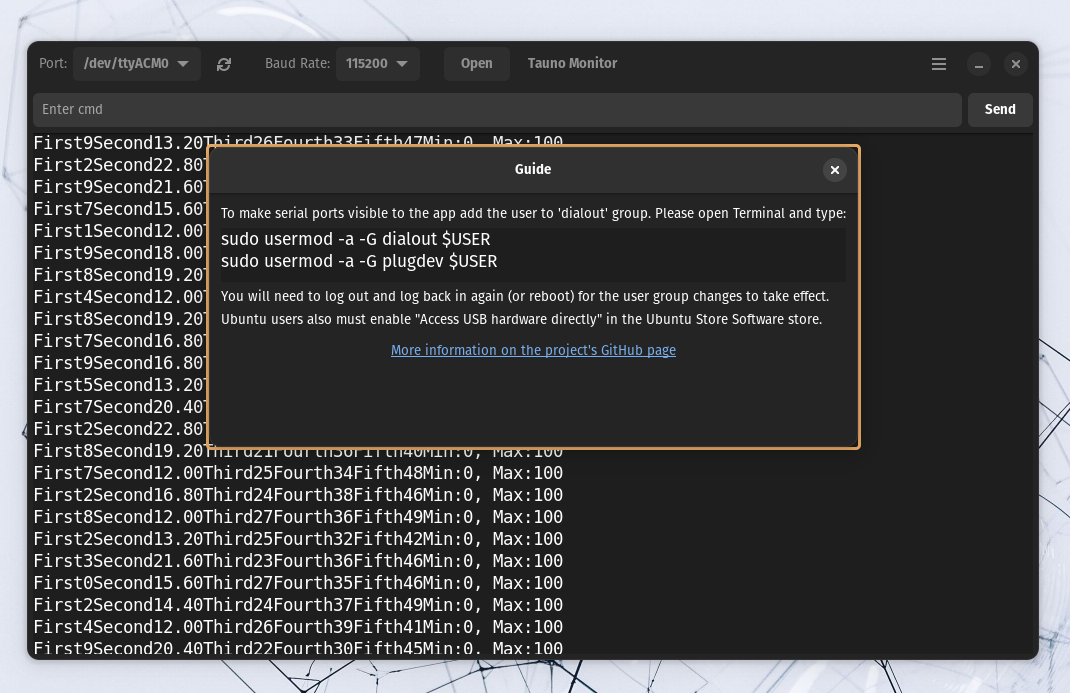
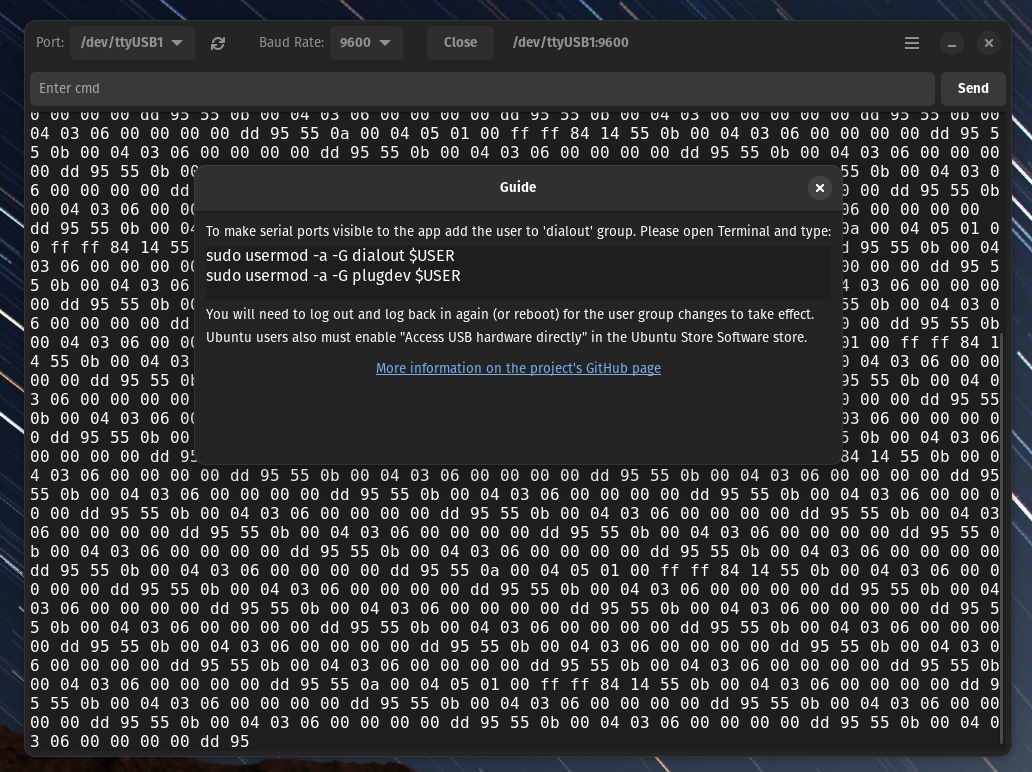
Added RX data HEX format selection

diff --git a/src/main.py b/src/main.py
@@ -36,6 +36,9 @@ locale.textdomain('tauno-monitor')
 class TaunoMonitorApplication(Adw.Application):
     """The main application singleton class."""
 
+    byte_sizes = ['FIVEBITS', 'SIXBITS', 'SEVENBITS', 'EIGHTBITS']  # serial
+    data_formats = ['ASCII', 'HEX']
+
     def __init__(self):
         super().__init__(application_id='art.taunoerik.tauno-monitor',
                          flags=Gio.ApplicationFlags.DEFAULT_FLAGS)
@@ -49,7 +52,7 @@ class TaunoMonitorApplication(Adw.Application):
         # shortcut
         self.set_accels_for_action('win.open', ['<Ctrl>o'])
 
-        # Get saved Mode
+        # Get saved Color Mode
         self.dark_mode_saved = self.settings.get_boolean("dark-mode")
         style_manager = Adw.StyleManager.get_default()
 
@@ -57,6 +60,8 @@ class TaunoMonitorApplication(Adw.Application):
             style_manager.set_color_scheme(Adw.ColorScheme.FORCE_DARK)
         else:
             style_manager.set_color_scheme(Adw.ColorScheme.FORCE_LIGHT)
+
+
 
 
 
@@ -100,7 +105,7 @@ class TaunoMonitorApplication(Adw.Application):
                                 application_icon='art.taunoerik.tauno-monitor',
                                 website='https://github.com/taunoe/tauno-monitor',
                                 developer_name='Tauno Erik',
-                                version='0.1.7',
+                                version='0.1.8',
                                 developers=['Tauno Erik'],
                                 copyright='© 2023 Tauno Erik')
         about.present()
@@ -115,14 +120,13 @@ class TaunoMonitorApplication(Adw.Application):
         settings_page.set_icon_name("applications-system-symbolic")
         preferences.add(settings_page)
 
-        # UI group
+        ## UI group
         ui_group = Adw.PreferencesGroup(title="Appearance")
         settings_page.add(ui_group)
 
-        # Text size
+        ### Text size
         font_row = Adw.ActionRow(title="Text size")
         ui_group.add(font_row)
-
         spin_adjustment = Gtk.Adjustment(value=self.win.font_size_saved,
                                  lower=2,
                                  upper=100,
@@ -133,15 +137,15 @@ class TaunoMonitorApplication(Adw.Application):
                                     digits=0)
         font_row.add_suffix(font_spin_button)
 
-        # Dark Mode
+        ### Dark Mode
         dark_mode_row = Adw.ActionRow(title="Dark Mode")
         ui_group.add(dark_mode_row)
         dark_mode_switch = Gtk.Switch(valign = Gtk.Align.CENTER,)
         dark_mode_row.add_suffix(dark_mode_switch)
-        # Current mode: True is Dark
+        ### Current mode: True is Dark
         dark_mode_switch.set_active(self.settings.get_boolean("dark-mode"))
 
-        # Notifications
+        ### Notifications
         notifications_row = Adw.ActionRow(title="Notifications")
         ui_group.add(notifications_row)
         notifications_switch = Gtk.Switch(valign = Gtk.Align.CENTER,)
@@ -149,12 +153,50 @@ class TaunoMonitorApplication(Adw.Application):
         # Get saved state:
         notifications_switch.set_active(self.settings.get_boolean("notifications"))
 
+        ## Data group
+        data_group = Adw.PreferencesGroup(title="Data")
+        settings_page.add(data_group)
+        rx_row = Adw.ActionRow(title="RX data format")
+        data_group.add(rx_row)
+        rx_format = Gtk.DropDown.new_from_strings(strings=self.data_formats)
+        rx_format.set_valign(Gtk.Align.CENTER)
+        # get saved index
+        index = self.data_formats.index(self.win.rx_format_saved)
+        rx_format.set_selected(position=index)
+        rx_row.add_suffix(rx_format)
+        """
+        TODO
+        ## Serial group
+        serial_group = Adw.PreferencesGroup(title="Serial")
+        settings_page.add(serial_group)
+        ### Byte-size row
+        bytesize_row = Adw.ActionRow(title="Byte-size")
+        serial_group.add(bytesize_row)
+        bytesize_drop_down = Gtk.DropDown.new_from_strings(strings=self.byte_sizes)
+        bytesize_drop_down.set_valign(Gtk.Align.CENTER)
+
+        bytesize_drop_down.set_selected(position=3)
+        bytesize_row.add_suffix(bytesize_drop_down)
+        #bytesize_drop_down.connect('notify::selected-item', self.on_selected_item)
+        """
         #
         preferences.present()
-        #
+
+        # Connects
         font_spin_button.connect("value-changed", self.text_size_action)
         dark_mode_switch.connect("state-set", self.dark_mode_switch_action)
         notifications_switch.connect("state-set", self.notifications_switch_action)
+        rx_format.connect("notify::selected-item", self.rx_data_format_action)
+
+    def rx_data_format_action(self, drop_down, g_param_object):
+        string_object = drop_down.get_selected_item()
+        index = drop_down.get_selected()
+        new_format = string_object.get_string()
+        #print(f'Position: {index} - value: {string_object.get_string()}')
+        # save settings
+        self.settings.set_string("rx-data-format", new_format)
+        # update pos
+        self.win.rx_format_saved = self.settings.get_string("rx-data-format")
 
 
     def dark_mode_switch_action(self, widget, state):

diff --git a/src/window.py b/src/window.py
@@ -23,6 +23,7 @@ import serial
 import serial.tools.list_ports
 import threading
 import time
+import codecs
 
 import gettext
 import locale
@@ -66,6 +67,9 @@ class TaunoMonitorWindow(Adw.ApplicationWindow):
 
         self.ports_str_list = []
         self.load_saved_port()
+
+        # Saved RX data format
+        self.rx_format_saved = self.settings.get_string("rx-data-format")
 
         # font size
         self.font_size_saved = self.settings.get_int("font-size")
@@ -223,7 +227,7 @@ sudo usermod -a -G plugdev $USER")
         # Open Serial Port
         self.tauno_serial.open(selected_port, selected_baud_rate)
 
-        # Change button label and titlr
+        # Change button label and title
         if self.tauno_serial.is_open:
             self.open_button.set_label("Close")
             self.set_title(str(selected_port)+":"+str(selected_baud_rate))
@@ -251,9 +255,17 @@ sudo usermod -a -G plugdev $USER")
         try:
             self.text_buffer = self.input_text_view.get_buffer()
             self.text_iter_end = self.text_buffer.get_end_iter()
-            #self.text_buffer.insert(self.text_iter_end, data.decode('utf-8'))
-            print("byte:", data)
-            self.text_buffer.insert(self.text_iter_end, data.decode()) #
+            #print("byte:", data)
+            #print(repr(data.decode()))
+
+            if self.rx_format_saved == 'HEX':
+                # 0x0a == \n
+                # 0x0d == \r
+                self.text_buffer.insert(self.text_iter_end, data.hex())
+                self.text_buffer.insert(self.text_iter_end, ' ')
+            else: # ASCII
+                if data.decode() != '\r': # ignore \r - is it good idea??
+                    self.text_buffer.insert(self.text_iter_end, data.decode())
 
             self.input_text_view.scroll_to_mark(self.text_mark_end, 0, False, 0, 0)
         except Exception as ex:
@@ -321,7 +333,6 @@ class TaunoSerial():
         """ Read while serial port is open """
         while self.is_open:
             try:
-                #data_in = self.myserial.readline() # read line
                 data_in = self.myserial.read()  # read a byte
                 GLib.idle_add(self.window_reference.update, data_in)
             except Exception as ex:
